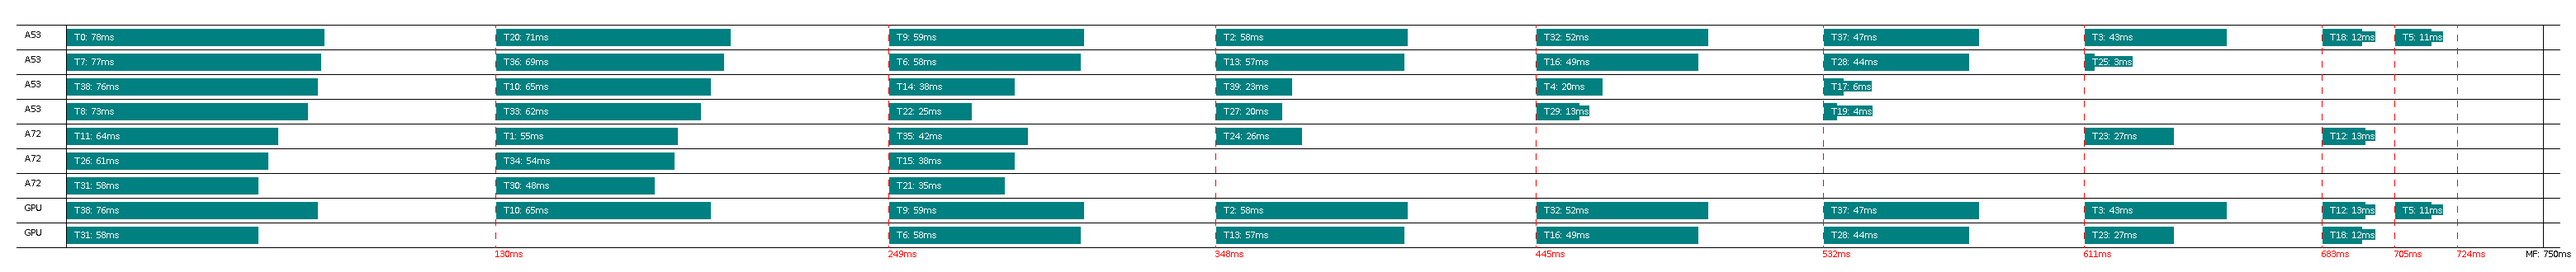
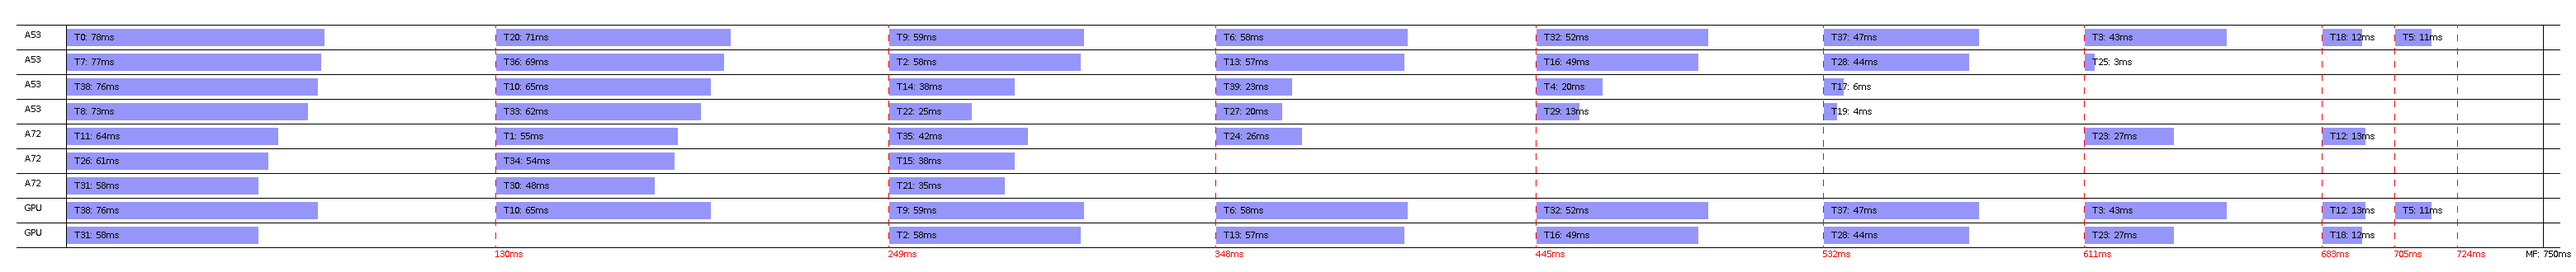
improved visualiser

diff --git a/tools/src/visualiser/visualiser.cpp b/tools/src/visualiser/visualiser.cpp
@@ -20,7 +20,8 @@ constexpr visualiser::uchar WHITE[] = { 0xFF, 0xFF, 0xFF };
 constexpr visualiser::uchar BLACK[] = { 0x00, 0x00, 0x00 };
 constexpr visualiser::uchar RED[] = { 0xFF, 0x00, 0x00 };
 //constexpr visualiser::uchar BLUE[] = { 0x00, 0x00, 0xFF };
-constexpr visualiser::uchar CYAN[] = { 0x00, 0x80, 0x80 };
+//constexpr visualiser::uchar CYAN[] = { 0x00, 0x80, 0x80 };
+constexpr visualiser::uchar LIGHT_VIOLET[] = { 0x96, 0x96, 0xFA };
 
 visualiser::visualiser(const environment& e, const solution& s) :
 		m_environment(e), m_solution(s), m_img_width(0), m_img_height(0), m_img_built(false)
@@ -133,10 +134,10 @@ visualiser::uint visualiser::draw_window(const window& window, uint window_start
 
 		uint start_y = m_pu_offsets.at(task_assignment.processor) + task_assignment.processing_unit * LANE_HEIGHT + LANE_Y_OFFSET;
 		uint end_y = start_y + LANE_HEIGHT - LANE_Y_OFFSET*2;
-		m_img.draw_rectangle((uint) (start_x + LANE_X_OFFSET), start_y, end_x, end_y, CYAN);
+		m_img.draw_rectangle((uint) (start_x + LANE_X_OFFSET), start_y, end_x, end_y, LIGHT_VIOLET);
 
 		std::string label = task_assignment.task + ": " + std::to_string(task_assignment.length) + "ms";
-		m_img.draw_text((uint) (start_x + 10), (uint) (start_y + 3), label.c_str(), WHITE, CYAN);
+		m_img.draw_text((uint) (start_x + 10), (uint) (start_y + 3), label.c_str(), BLACK);
 	}
 
 	uint end_x = window_start_x + window.length*TIME_SCALE;

diff --git a/doc/solver_optimality/README.md b/doc/solver_optimality/README.md
@@ -1,6 +1,6 @@
 Longest tasks first heuristic does not always produce optimal solution.
 
-## ILP Solution
+## ILP solution
 ![ilp](ilp.png "ILP solution")
 
 ## Heuristic solution
